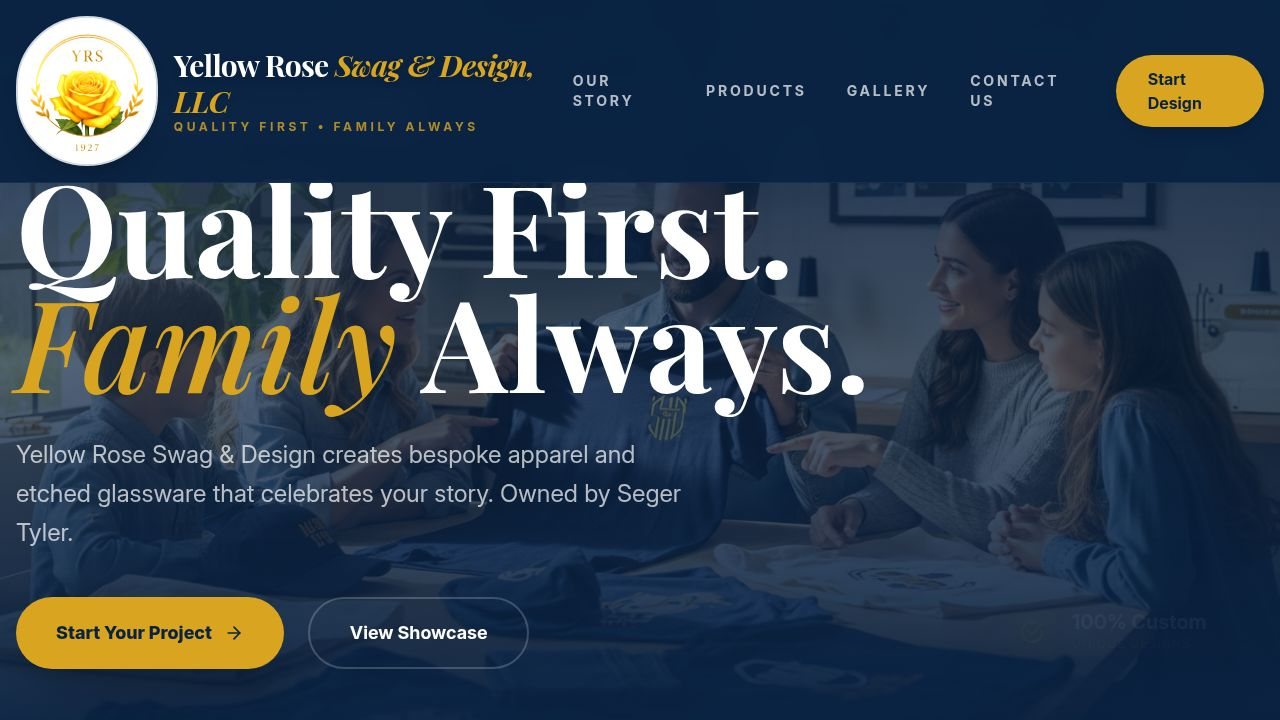
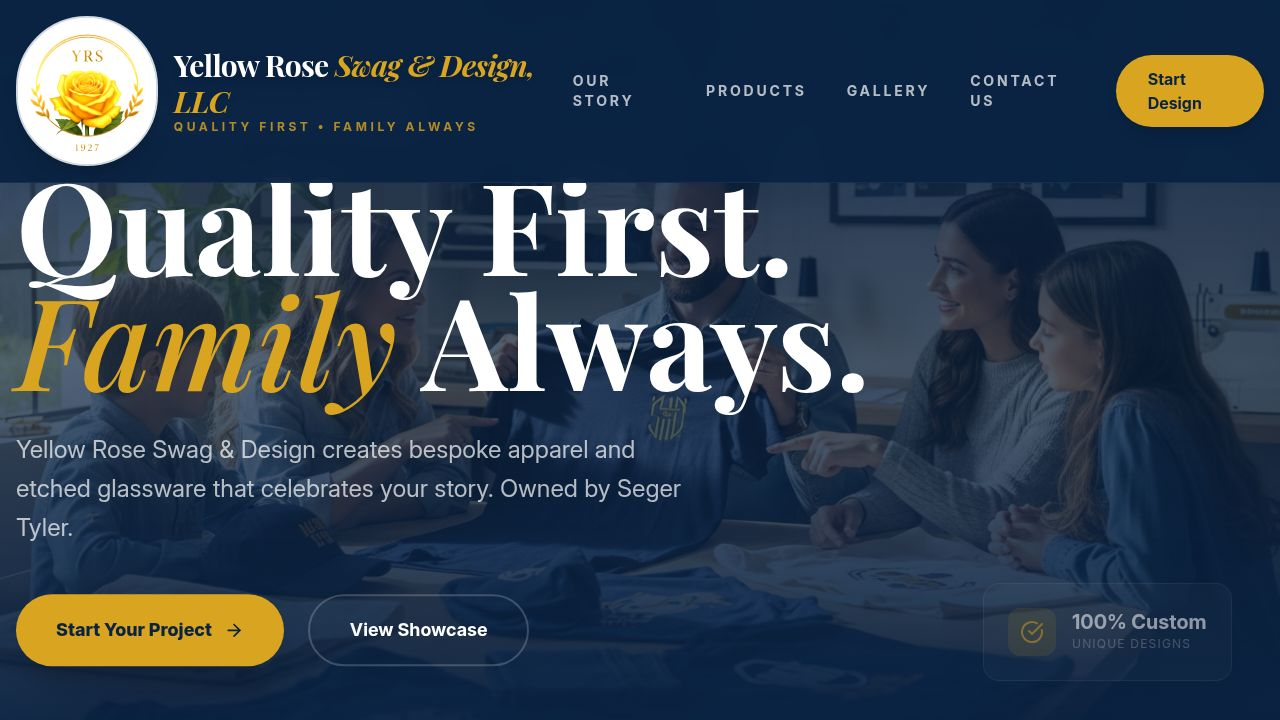
Update sender email to use a verified domain
Change the 'from' email address in the Resend API call from "orders@yellowroseswag.com" to "orders@resend.dev".

Replit-Commit-Author: Agent
Replit-Commit-Session-Id: 15d99e30-08a7-445f-880d-adacafae3968
Replit-Commit-Checkpoint-Type: full_checkpoint
Replit-Commit-Event-Id: 5de7c4eb-2101-40b9-ae19-ca6f5e29f62e
Replit-Commit-Screenshot-Url: https://storage.googleapis.com/screenshot-production-us-central1/aaed7c2e-255e-4d0b-97b1-d040c0ed7831/15d99e30-08a7-445f-880d-adacafae3968/FEDl84X
Replit-Helium-Checkpoint-Created: true

diff --git a/server/email.ts b/server/email.ts
@@ -22,7 +22,7 @@ async function sendEmailViaResend(to: string, subject: string, html: string) {
         Authorization: `Bearer ${RESEND_API_KEY}`,
       },
       body: JSON.stringify({
-        from: "orders@yellowroseswag.com",
+        from: "orders@resend.dev",
         to: to,
         subject: subject,
         html: html,
